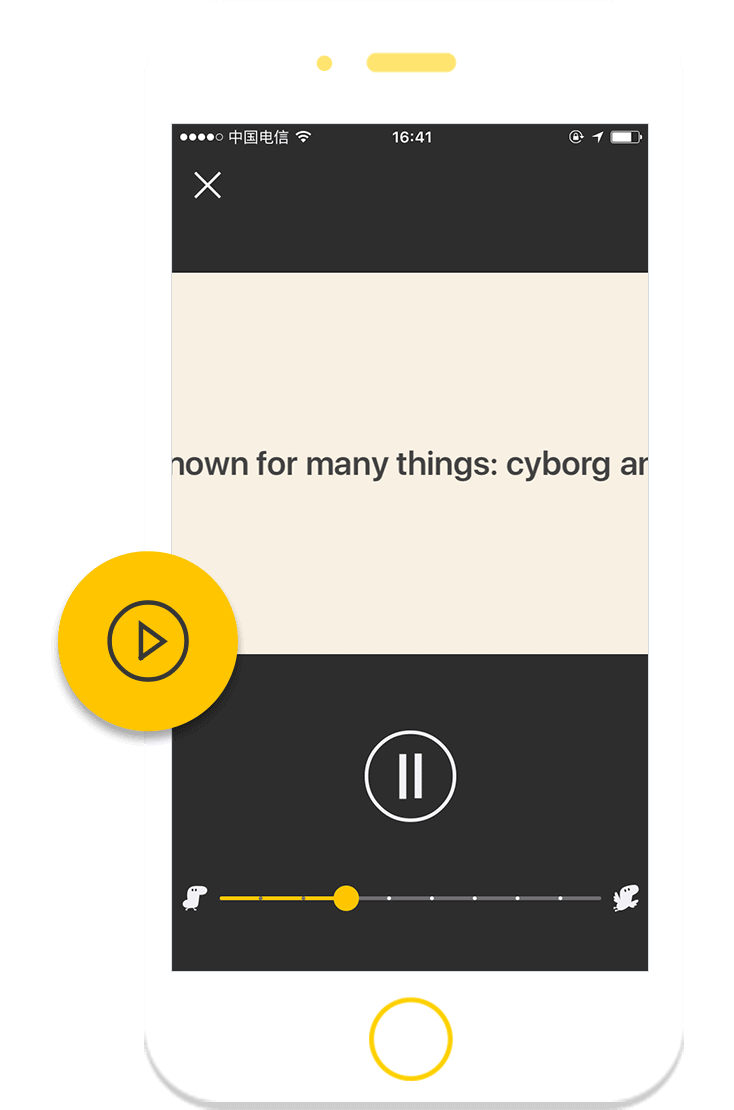
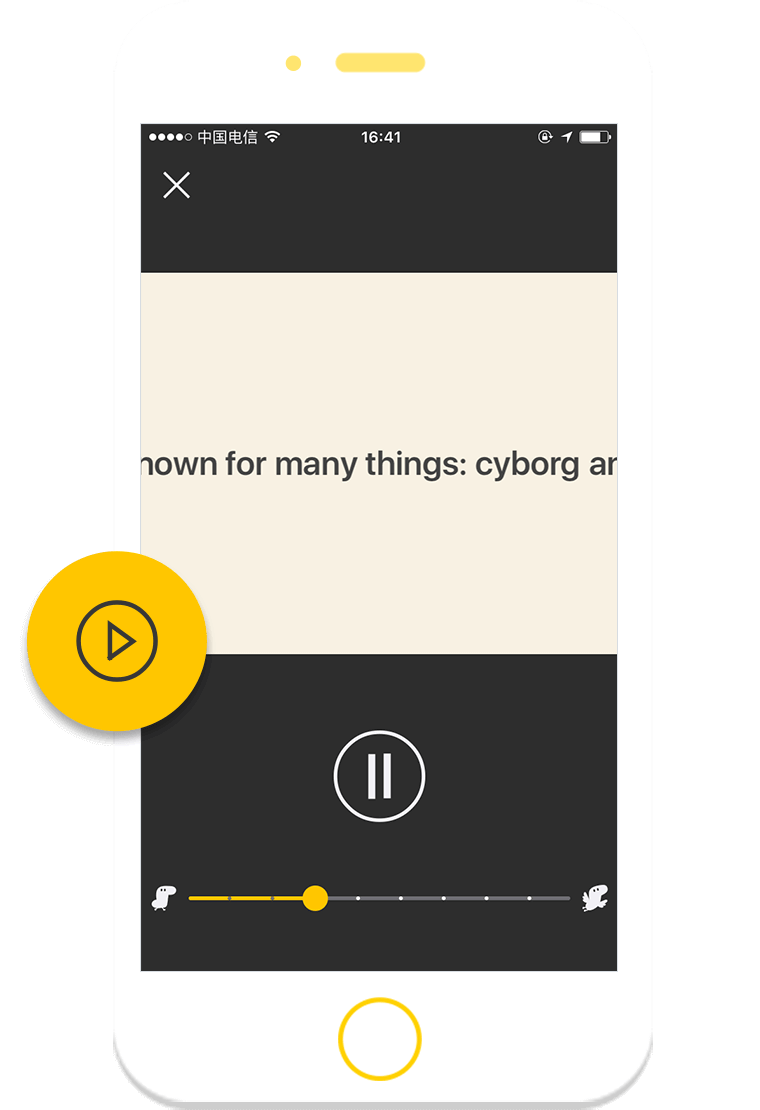
使效果图居中

diff --git a/css/style.css b/css/style.css
@@ -44,7 +44,7 @@ p {
 
 .screen {
     max-width: 100%;
-    width: 367px;
+    width: 380px;
     height: 555px;
     background-size: contain;
     background-repeat: no-repeat;
@@ -101,7 +101,7 @@ p {
 /* page-dots */
 
 #page-dots {
-    width: 100px;
+    width: 90px;
     height: 10px;
 }
 
@@ -123,7 +123,7 @@ p {
 #dot {
     width: 10px;
     height: 10px;
-    border-radius: 6px;
+    border-radius: 5px;
     background: #555;
 }
 
@@ -200,11 +200,11 @@ p {
     }
     .screen {
         width: 320px;
-        height: 484px;
+        height: 467px;
     }
     .text {
-        width: 280px;
-        height: 94px;
+        width: 271px;
+        height: 91px;
         background-size: contain;
         background-repeat: no-repeat;
     }
